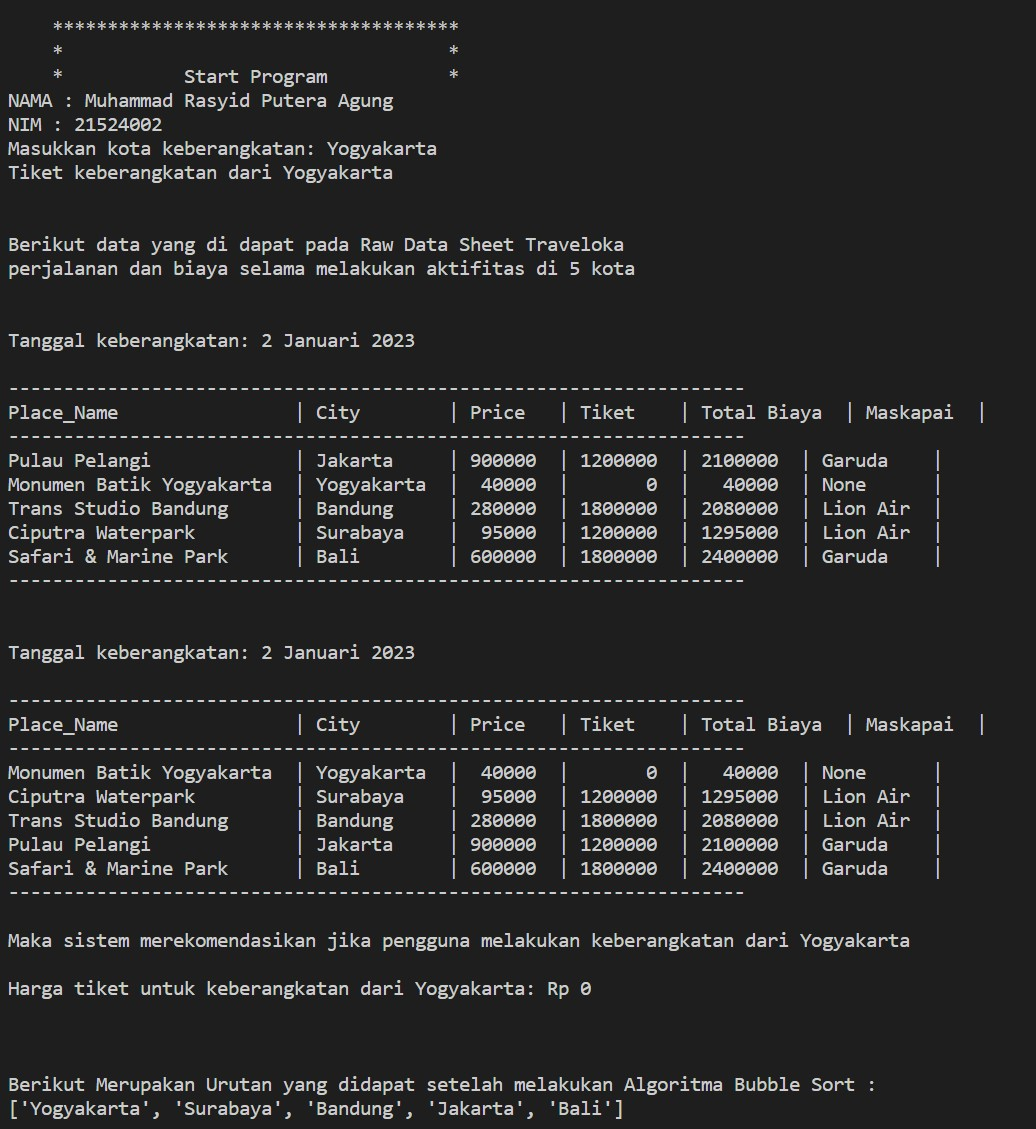
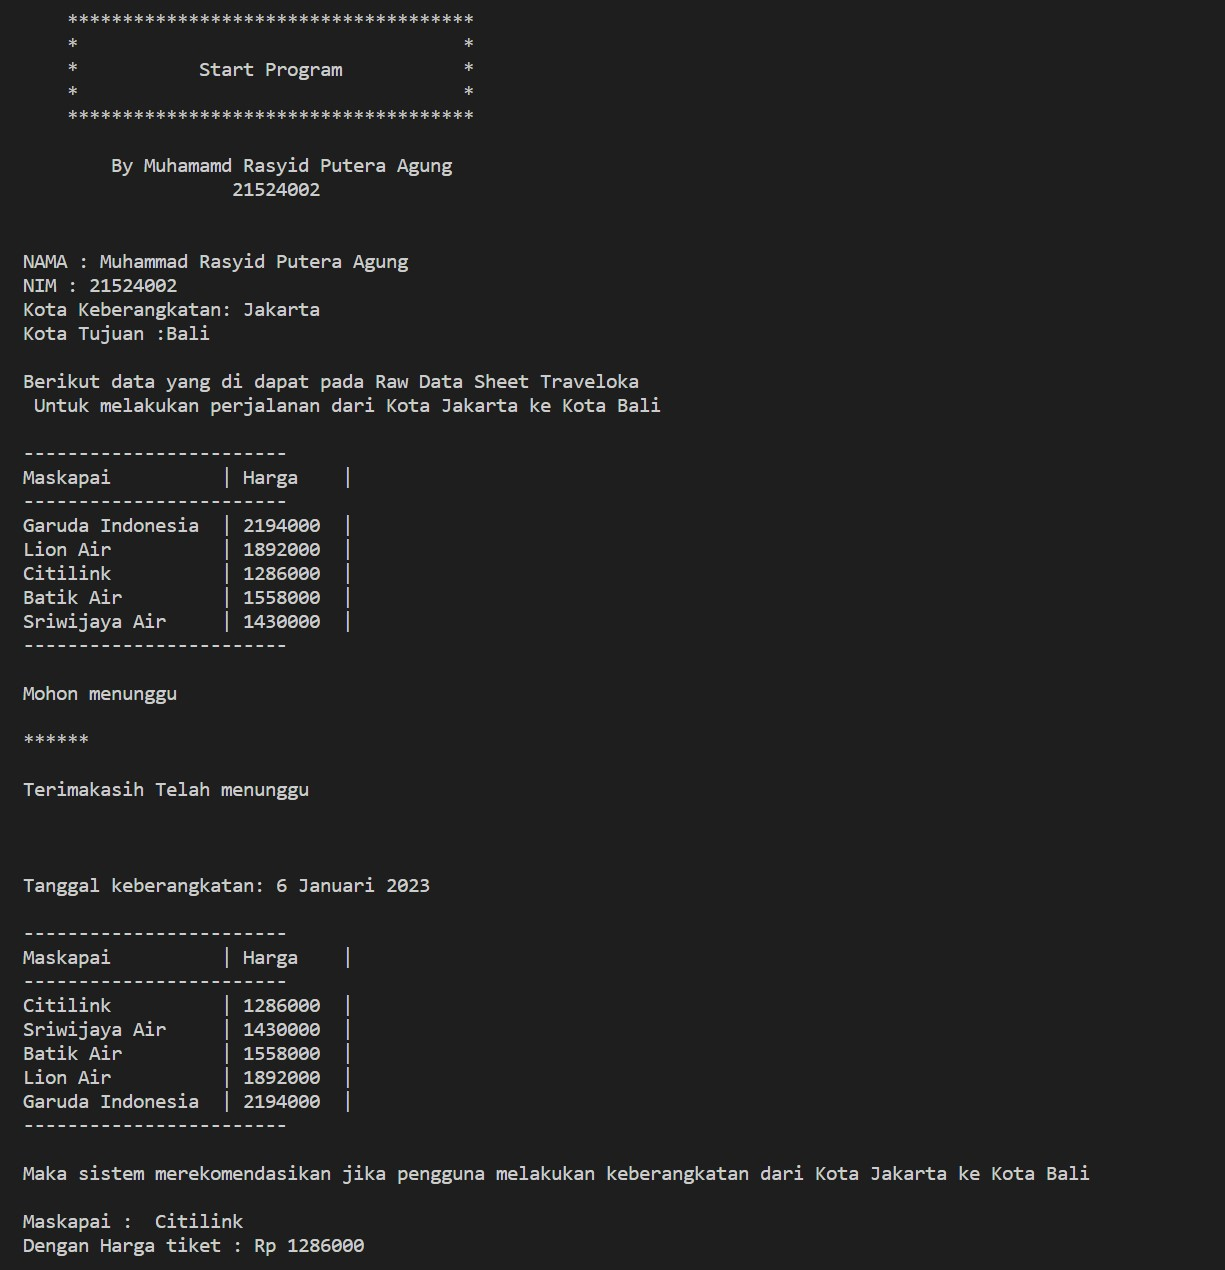
31-12-22

diff --git a/data.py b/data.py
@@ -1,18 +1,18 @@
 data = [
     {'City': 'Jakarta',
-     'Kordinat' : '1.052916136498175, 103.81477043915011'},
+     'Kordinat' : '-6.12679500016334, 106.65339560851257'},
     
     {'City': 'Yogyakarta',
-     'Kordinat' : '-7.800935174109129, 110.36460644980967'},
+     'Kordinat' : '-7.886251633489997, 110.05960218173766'},
     
     {'City': 'Bandung',
-     'Kordinat' : '-6.92433667878558, 107.6362761839028'},
+     'Kordinat' : '-6.616801385020512, 108.14557163828958'},
     
     {'City': 'Surabaya',
-     'Kordinat' : '-7.284997350201137, 112.63292449740035'},
+     'Kordinat' : '-7.378619094948739, 112.78727836856608'},
     
     {'City': 'Bali',
-     'Kordinat' : '-8.580671166542782, 115.34524442624799'}
+     'Kordinat' : '-8.74476996211164, 115.16560374343673'}
 ]
 
 data_maskapai = [

diff --git a/rekomendasi.py b/rekomendasi.py
@@ -1,9 +1,10 @@
-def rekomendasi(keberangkatan,tujuan,data_maskapai,jarak) : 
+def rekomendasi(keberangkatan,tujuan,data_maskapai) : 
         for item in data_maskapai:
             if item['Harga'] == data_maskapai[0]['Harga']:
+                
                 print(f'\nMaka sistem merekomendasikan jika pengguna melakukan keberangkatan dari Kota {keberangkatan} ke Kota {tujuan} \n')
-                print(f'\nJarak antara Kota : {jarak}KM')
-                print(f'Dengan Harga tiket : Rp {item["Harga"]}\n\n')
+                print('Maskapai : ', data_maskapai[0]['Maskapai'])
+                print(f'Dengan Harga tiket : Rp {item["Harga"]}\n')
                 # Menggunakan return statement untuk kembali mengembalikan harga tiket
                 return item['Harga']
        

diff --git a/tiket.py b/tiket.py
@@ -3,10 +3,8 @@ def keberangkatan(city, data):
   # untuk keberangkatan dari kota yang diminta
   while True:
     try:
-      # Mencoba menampilkan harga tiket jika ditemukan
       for item in data:
         if item['City'] == city:
-              print(f'Tiket keberangkatan dari {city}\n')
               return city
       else:
         city = input('Kota Keberangkatan: ')
@@ -24,7 +22,6 @@ def tujuan(city, data):
       # Mencoba menampilkan harga tiket jika ditemukan
       for item in data:
         if item['City'] == city:
-              print(f'Tiket dengan Tujuan {city}\n')
               return city
       else:
         city = input('Kota Tujuan: ')

diff --git a/TUBES ALGORITMA.py b/TUBES ALGORITMA.py
@@ -42,8 +42,8 @@ bubble_sort.bubble_sort(data_maskapai)
 
 tabel.tabel(data_maskapai)
 
-total_jarak = haversine(data,keberangkatan,tujuan)
-rekomendasi.rekomendasi(keberangkatan,tujuan,data_maskapai,total_jarak)
+rekomendasi.rekomendasi(keberangkatan,tujuan,data_maskapai)
+print(f'Jarak antar Kota : {haversine(data,keberangkatan,tujuan)} KM\n')
 
 
 

diff --git a/Jarak.py b/Jarak.py
@@ -22,7 +22,6 @@ def haversine(data, Keberangkatan, Tujuan):
     
     # Menghitung jarak dalam kilometer
     distance = 6371 * c
-    print(distance)
     
     return distance
     

diff --git a/Loading.py b/Loading.py
@@ -7,4 +7,4 @@ def page():
         print("*", end="")
         time.sleep(0.5)
 
-    print("\n\nTerimakasih Telah menunggu\n\n")
+    print("\n\nTerimakasih Telah menunggu\n")
